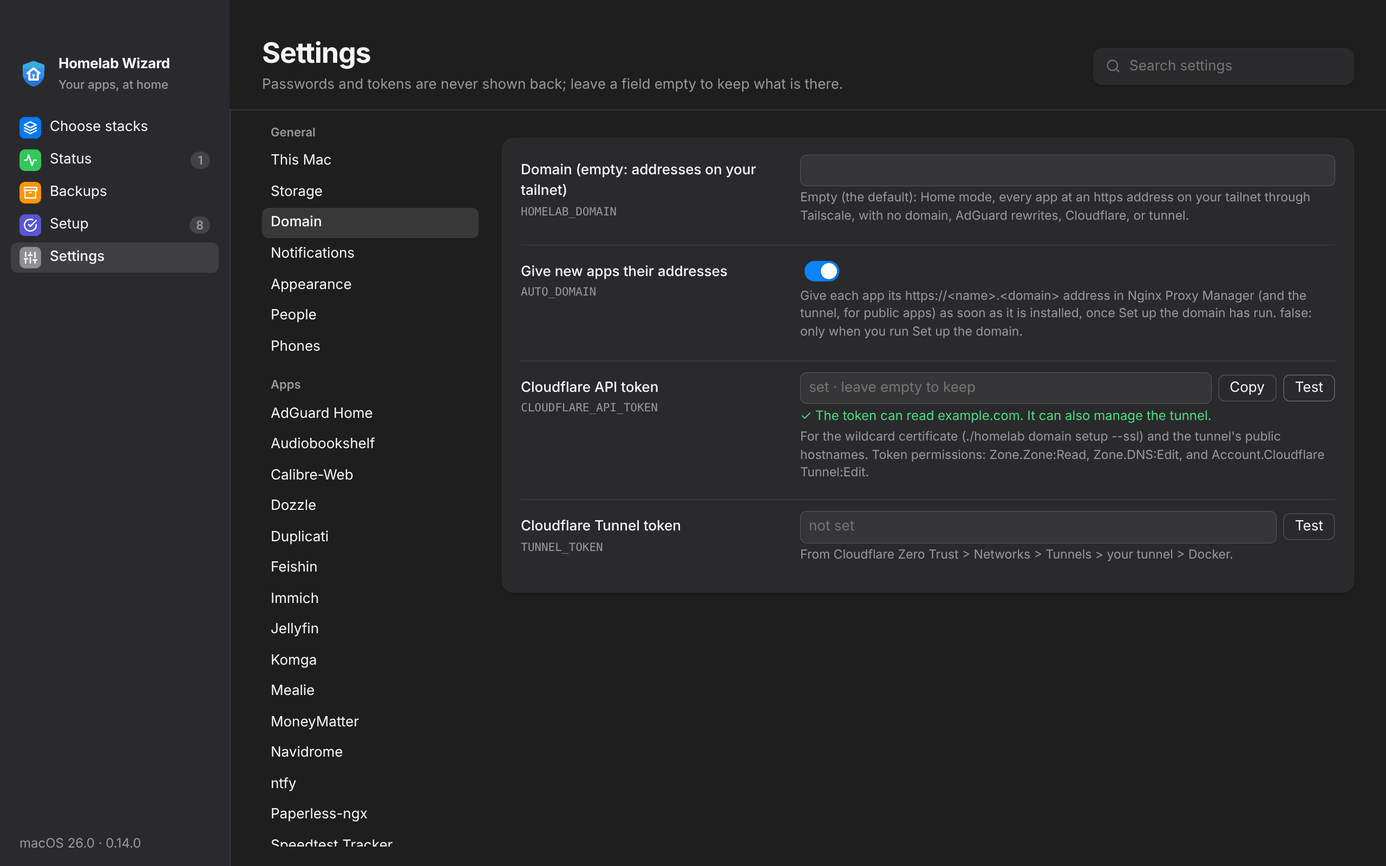
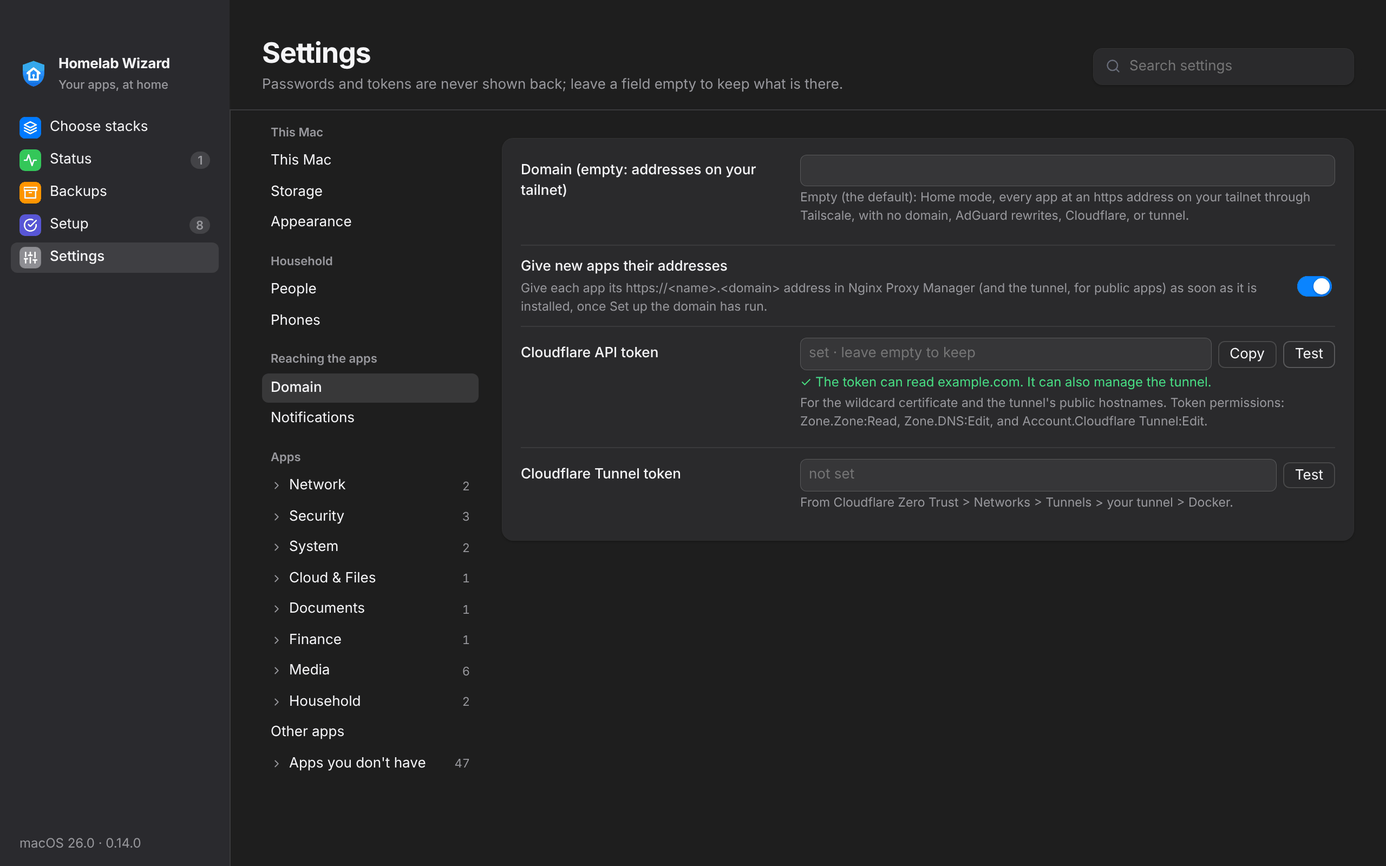
Settings, organized: pages in groups, apps by category (#285)
The page list in groups (this machine, the household, reaching the apps), the installed apps folded by category, and the apps not installed folded at the end; settings with plain names, the .env name on hover and while searching, and help without commands or true/false. Setup's Cloudflare token message in plain words.

Claude-Session: https://claude.ai/code/session_01Qfa6n3M9uAZdZ4J8jhJaPw

diff --git a/web/dist/app.js b/web/dist/app.js
@@ -1384,6 +1384,11 @@
     }
     return out;
   }
+  function plainHelp(help, toggle) {
+    const words = help.replace(/\s*\((?:\.\/)?homelab [^)]*\)/g, "");
+    if (!toggle) return words;
+    return words.split(new RegExp("(?<=\\.)\\s+")).filter((t3) => !/^(true|false)\b/i.test(t3)).join(" ");
+  }
   function Row3({ s: s3, p: p3, value, hidden, edit }) {
     const [result, setResult] = d2(null);
     const [testing, setTesting] = d2(false);
@@ -1422,19 +1427,22 @@
       s3.secret && s3.set && /* @__PURE__ */ u3("button", { class: "small", title: "Copy the saved value, to keep it in the password manager; the clipboard clears after 90 seconds", onClick: async () => setResult(await p3.on.copy(s3.key)), children: "Copy" }),
       p3.testable.has(s3.key) && /* @__PURE__ */ u3("button", { class: "small", title: "Check the saved value with the service it is for", disabled: testing, onClick: test, children: "Test" })
     ].filter(Boolean);
-    return /* @__PURE__ */ u3("div", { class: "setting" + (p3.focus.includes(s3.key) ? " focus" : "") + (p3.wanted.has(s3.key) ? "" : " more"), id: "setting-" + s3.key, hidden, children: [
-      /* @__PURE__ */ u3("div", { class: "key", children: [
-        /* @__PURE__ */ u3("span", { class: "label", children: label }),
-        /* @__PURE__ */ u3("code", { children: s3.key })
-      ] }),
-      buttons.length ? /* @__PURE__ */ u3("div", { class: "inputrow", children: [
-        input,
-        buttons
-      ] }) : input,
-      /* @__PURE__ */ u3("div", { class: "test" + (result ? " " + result.tone : ""), hidden: !result, children: result?.text }),
-      s3.help && /* @__PURE__ */ u3("div", { class: "help", children: s3.help }),
-      step && step.state !== "waiting" && /* @__PURE__ */ u3("div", { class: "check " + (step.state === "done" ? "ok" : "warn"), children: step.state === "done" ? `✓ ${step.title}` : `${step.title}: ${step.detail || "to do"}` })
-    ] });
+    return (
+      // Its .env name shows on hover, and under it while searching.
+      /* @__PURE__ */ u3("div", { class: "setting" + (toggle ? " toggle" : "") + (p3.focus.includes(s3.key) ? " focus" : "") + (p3.wanted.has(s3.key) ? "" : " more"), id: "setting-" + s3.key, hidden, children: [
+        /* @__PURE__ */ u3("div", { class: "key", title: s3.key, children: [
+          /* @__PURE__ */ u3("span", { class: "label", children: label }),
+          /* @__PURE__ */ u3("code", { children: s3.key })
+        ] }),
+        buttons.length ? /* @__PURE__ */ u3("div", { class: "inputrow", children: [
+          input,
+          buttons
+        ] }) : input,
+        /* @__PURE__ */ u3("div", { class: "test" + (result ? " " + result.tone : ""), hidden: !result, children: result?.text }),
+        s3.help && /* @__PURE__ */ u3("div", { class: "help", children: plainHelp(s3.help, toggle) }),
+        step && step.state !== "waiting" && /* @__PURE__ */ u3("div", { class: "check " + (step.state === "done" ? "ok" : "warn"), children: step.state === "done" ? `✓ ${step.title}` : `${step.title}: ${step.detail || "to do"}` })
+      ] })
+    );
   }
   function Form(p3) {
     const [edits, setEdits] = d2({});
@@ -1651,13 +1659,42 @@
   var mountPhones = (el, props) => R(/* @__PURE__ */ u3(Phones, { ...props }), el);
 
   // web/src/settings/Nav.tsx
+  function PageButton({ name, active: active2, counts, pick, inFold }) {
+    return /* @__PURE__ */ u3("button", { class: "pagebtn" + (inFold ? " infold" : "") + (!counts && name === active2 ? " active" : "") + (counts && !counts[name] ? " nomatch" : ""), "data-page": name, onClick: () => pick(name), children: [
+      /* @__PURE__ */ u3("span", { children: name }),
+      /* @__PURE__ */ u3("span", { class: "n", children: counts && counts[name] ? String(counts[name]) : "" })
+    ] }, name);
+  }
   function Nav({ groups, active: active2, counts, pick }) {
-    return /* @__PURE__ */ u3(S, { children: groups.filter((g2) => g2.pages.length).map((g2) => [
+    const [picked, setPicked] = d2({});
+    const matches2 = (f4) => !!counts && f4.pages.some((p3) => counts[p3]);
+    const isOpen = (f4) => counts ? matches2(f4) : picked[f4.label] ?? f4.pages.includes(active2);
+    return /* @__PURE__ */ u3(S, { children: groups.filter((g2) => g2.items.length).map((g2) => [
       /* @__PURE__ */ u3("div", { class: "navhead", children: g2.head }, "h:" + g2.head),
-      ...g2.pages.map((name) => /* @__PURE__ */ u3("button", { class: "pagebtn" + (!counts && name === active2 ? " active" : "") + (counts && !counts[name] ? " nomatch" : ""), "data-page": name, onClick: () => pick(name), children: [
-        /* @__PURE__ */ u3("span", { children: name }),
-        /* @__PURE__ */ u3("span", { class: "n", children: counts && counts[name] ? String(counts[name]) : "" })
-      ] }, name))
+      ...g2.items.map((item) => {
+        if (typeof item === "string") return /* @__PURE__ */ u3(PageButton, { name: item, active: active2, counts, pick }, item);
+        const f4 = item, open = isOpen(f4);
+        const n2 = counts ? f4.pages.reduce((sum, p3) => sum + (counts[p3] || 0), 0) : f4.pages.length;
+        return [
+          /* @__PURE__ */ u3(
+            "button",
+            {
+              class: "navfold" + (open ? " open" : "") + (counts && !n2 ? " nomatch" : ""),
+              "aria-expanded": open,
+              onClick: () => setPicked({ ...picked, [f4.label]: !open }),
+              children: [
+                /* @__PURE__ */ u3("span", { children: [
+                  /* @__PURE__ */ u3(Icon, { name: "chevron" }),
+                  f4.label
+                ] }),
+                /* @__PURE__ */ u3("span", { class: "n", children: n2 ? String(n2) : "" })
+              ]
+            },
+            "f:" + f4.label
+          ),
+          ...open ? f4.pages.map((name) => /* @__PURE__ */ u3(PageButton, { name, active: active2, counts, pick, inFold: true }, name)) : []
+        ];
+      })
     ]) });
   }
   function mountNav(el, props) {
@@ -3587,18 +3624,30 @@
     const appPages = [...byApp.values()].sort((a3, b2) => Number(a3.name === "Other apps") - Number(b2.name === "Other apps") || a3.name.localeCompare(b2.name));
     return [...general, ...appPages];
   }
+  var pageGroups = [
+    [thisMachine, [thisMachine, "Storage", "Appearance"]],
+    ["Household", ["People", "Phones"]],
+    ["Reaching the apps", ["Domain", "Notifications"]]
+  ];
   var navGroups = [];
   function renderSettingsNav(pages) {
     const installed = (name) => Object.values(statusById || {}).some((a3) => a3.name === name && a3.state !== "missing");
-    const general = pages.filter((p3) => p3.kind === "general");
+    const general = [...pages.filter((p3) => p3.kind === "general").map((p3) => p3.name), ...extraPages];
     const apps = pages.filter((p3) => p3.kind === "app");
     const known = Object.keys(statusById || {}).length > 0;
     const mine = known ? apps.filter((p3) => installed(p3.name) || p3.name === "Other apps") : apps;
     const others = known ? apps.filter((p3) => !mine.includes(p3)) : [];
+    const groups = pageGroups.map(([head, names]) => ({ head, items: names.filter((n2) => general.includes(n2)) }));
+    const named = new Set(pageGroups.flatMap(([, names]) => names));
+    groups[0].items.push(...general.filter((n2) => !named.has(n2)));
+    const cats = catalog?.categories || [];
+    const catOf = (name) => (catalog?.apps || []).find((a3) => a3.kind !== "helper" && (name === a3.name || name.startsWith(a3.name + " ")))?.category || "";
+    const folds = cats.map((c3) => ({ label: c3.label, pages: mine.filter((p3) => p3.name !== "Other apps" && catOf(p3.name) === c3.id).map((p3) => p3.name) })).filter((f4) => f4.pages.length);
+    const loose = mine.filter((p3) => p3.name !== "Other apps" && !cats.some((c3) => c3.id === catOf(p3.name))).map((p3) => p3.name);
+    const other = mine.some((p3) => p3.name === "Other apps") ? ["Other apps"] : [];
     navGroups = [
-      { head: "General", pages: [...general.map((p3) => p3.name), ...extraPages] },
-      { head: "Apps", pages: mine.map((p3) => p3.name) },
-      { head: "Not installed", pages: others.map((p3) => p3.name) }
+      ...groups,
+      { head: "Apps", items: [...loose, ...folds, ...other, ...others.length ? [{ label: "Apps you don't have", pages: others.map((p3) => p3.name) }] : []] }
     ];
   }
   function pickSettingsPage(name) {
@@ -3608,7 +3657,7 @@
     document.querySelector("main").scrollTo({ top: 0 });
   }
   function showSettingsPage(name) {
-    $1(`#settingsNav .pagebtn[data-page="${CSS.escape(name)}"]`)?.click();
+    pickSettingsPage(name);
   }
   var everyday = /* @__PURE__ */ new Set([
     "TZ",
@@ -3739,6 +3788,7 @@
     const sh = shown(form.pages, form.view, form.wanted, form.label, form.checks);
     for (const [id2, name] of [["thisMacCard", thisMachine], ["appearanceCard", "Appearance"], ["peopleCard", "People"], ["phonesCard", "Phones"]]) $2(id2).classList.toggle("offpage", searching || settingsPage !== name);
     mountNav($2("settingsNav"), { groups: navGroups, active: settingsPage, counts: searching ? sh.counts : null, pick: pickSettingsPage });
+    $2("settingsForm").classList.toggle("searching", searching);
     $2("settingsNone").hidden = sh.keys.size > 0 || !searching;
     $2("settingsAll").hidden = searching || !sh.pageMore;
     $2("settingsAll").textContent = settingsShowAll ? "Show the everyday settings only" : `Show all settings (${sh.pageMore} more)`;

diff --git a/web/src/screens/settings.ts b/web/src/screens/settings.ts
@@ -229,18 +229,36 @@ function settingsPages(list) {
   return [...general, ...appPages];
 }
 
-// The page list on the left: General, then Apps (the installed ones first,
-// as Status knows them), with a count of matches while searching.
+// The page list on the left (owner, 29 Oct: "per category"): this machine,
+// the household, and reaching the apps; then the installed apps folded by
+// their category on Status; then the apps not installed, folded as one.
+// A page not named in the groups joins the first.
+const pageGroups: [string, string[]][] = [
+  [thisMachine, [thisMachine, 'Storage', 'Appearance']],
+  ['Household', ['People', 'Phones']],
+  ['Reaching the apps', ['Domain', 'Notifications']],
+];
 let navGroups: NavGroup[] = [];
 function renderSettingsNav(pages) {
   const installed = (name) => Object.values(statusById || {}).some((a) => a.name === name && a.state !== 'missing');
-  const general = pages.filter((p) => p.kind === 'general');
+  const general = [...pages.filter((p) => p.kind === 'general').map((p) => p.name), ...extraPages];
   const apps = pages.filter((p) => p.kind === 'app');
   const known = Object.keys(statusById || {}).length > 0;
   const mine = known ? apps.filter((p) => installed(p.name) || p.name === 'Other apps') : apps;
   const others = known ? apps.filter((p) => !mine.includes(p)) : [];
-  navGroups = [{ head: 'General', pages: [...general.map((p) => p.name), ...extraPages] },
-    { head: 'Apps', pages: mine.map((p) => p.name) }, { head: 'Not installed', pages: others.map((p) => p.name) }];
+  const groups: NavGroup[] = pageGroups.map(([head, names]) => ({ head, items: names.filter((n) => general.includes(n)) }));
+  const named = new Set(pageGroups.flatMap(([, names]) => names));
+  groups[0].items.push(...general.filter((n) => !named.has(n)));
+  // An app page's category: its app's (a page named for an app, or for an
+  // app and its helpers, as "Nginx Proxy Manager and CrowdSec").
+  const cats = catalog?.categories || [];
+  const catOf = (name) => (catalog?.apps || []).find((a) => a.kind !== 'helper' && (name === a.name || name.startsWith(a.name + ' ')))?.category || '';
+  const folds = cats.map((c) => ({ label: c.label, pages: mine.filter((p) => p.name !== 'Other apps' && catOf(p.name) === c.id).map((p) => p.name) }))
+    .filter((f) => f.pages.length);
+  const loose = mine.filter((p) => p.name !== 'Other apps' && !cats.some((c) => c.id === catOf(p.name))).map((p) => p.name);
+  const other = mine.some((p) => p.name === 'Other apps') ? ['Other apps'] : [];
+  navGroups = [...groups,
+    { head: 'Apps', items: [...loose, ...folds, ...other, ...(others.length ? [{ label: "Apps you don't have", pages: others.map((p) => p.name) }] : [])] }];
 }
 function pickSettingsPage(name) {
   settingsPage = name;
@@ -248,8 +266,10 @@ function pickSettingsPage(name) {
   filterSettings();
   document.querySelector('main').scrollTo({ top: 0 });
 }
+// A page in a folded category has no button until its fold opens: picked
+// directly, its fold opens with it.
 export function showSettingsPage(name) {
-  $1(`#settingsNav .pagebtn[data-page="${CSS.escape(name)}"]`)?.click();
+  pickSettingsPage(name);
 }
 
 // The settings people change: where things are, the accounts the homelab
@@ -327,6 +347,7 @@ function filterSettings() {
   const sh = shownSettings(form.pages, form.view, form.wanted, form.label, form.checks);
   for (const [id, name] of [['thisMacCard', thisMachine], ['appearanceCard', 'Appearance'], ['peopleCard', 'People'], ['phonesCard', 'Phones']]) $(id).classList.toggle('offpage', searching || settingsPage !== name);
   mountNav($('settingsNav'), { groups: navGroups, active: settingsPage, counts: searching ? sh.counts : null, pick: pickSettingsPage });
+  $('settingsForm').classList.toggle('searching', searching);
   $('settingsNone').hidden = sh.keys.size > 0 || !searching;
   $('settingsAll').hidden = searching || !sh.pageMore;
   $('settingsAll').textContent = settingsShowAll ? 'Show the everyday settings only' : `Show all settings (${sh.pageMore} more)`;

diff --git a/web/src/settings/Nav.tsx b/web/src/settings/Nav.tsx
@@ -1,9 +1,16 @@
-// Settings' page list on the left: General (with Appearance, People, and
-// Phones), then the installed apps, then the rest, each with a count of
-// matches while searching.
+// Settings' page list on the left, in groups (this machine, the household,
+// reaching the apps), then the installed apps folded by category, then the
+// apps not installed folded as one; each page with a count of matches while
+// searching. A fold opens by itself when it holds the page shown, or a match.
 import { render } from 'preact';
+import { useState } from 'preact/hooks';
+import { Icon } from '../Icon';
 
-export interface NavGroup { head: string; pages: string[] }
+/** A folded set of pages: a category of apps, or the apps not installed. */
+export interface NavFold { label: string; pages: string[] }
+
+/** A group: its pages and folds, in order. */
+export interface NavGroup { head: string; items: (string | NavFold)[] }
 
 export interface NavProps {
   groups: NavGroup[];
@@ -14,16 +21,35 @@ export interface NavProps {
   pick: (page: string) => void;
 }
 
+function PageButton({ name, active, counts, pick, inFold }: { name: string; active: string; counts: Record<string, number> | null; pick: (p: string) => void; inFold?: boolean }) {
+  return (
+    <button key={name} class={'pagebtn' + (inFold ? ' infold' : '') + (!counts && name === active ? ' active' : '') + (counts && !counts[name] ? ' nomatch' : '')} data-page={name} onClick={() => pick(name)}>
+      <span>{name}</span><span class="n">{counts && counts[name] ? String(counts[name]) : ''}</span>
+    </button>
+  );
+}
+
 export function Nav({ groups, active, counts, pick }: NavProps) {
+  // The folds opened or closed by hand; the others follow the page shown.
+  const [picked, setPicked] = useState<Record<string, boolean>>({});
+  const matches = (f: NavFold) => !!counts && f.pages.some((p) => counts[p]);
+  const isOpen = (f: NavFold) => (counts ? matches(f) : picked[f.label] ?? f.pages.includes(active));
   return (
     <>
-      {groups.filter((g) => g.pages.length).map((g) => [
+      {groups.filter((g) => g.items.length).map((g) => [
         <div class="navhead" key={'h:' + g.head}>{g.head}</div>,
-        ...g.pages.map((name) => (
-          <button key={name} class={'pagebtn' + (!counts && name === active ? ' active' : '') + (counts && !counts[name] ? ' nomatch' : '')} data-page={name} onClick={() => pick(name)}>
-            <span>{name}</span><span class="n">{counts && counts[name] ? String(counts[name]) : ''}</span>
-          </button>
-        )),
+        ...g.items.map((item) => {
+          if (typeof item === 'string') return <PageButton key={item} name={item} active={active} counts={counts} pick={pick} />;
+          const f = item, open = isOpen(f);
+          const n = counts ? f.pages.reduce((sum, p) => sum + (counts[p] || 0), 0) : f.pages.length;
+          return [
+            <button key={'f:' + f.label} class={'navfold' + (open ? ' open' : '') + (counts && !n ? ' nomatch' : '')} aria-expanded={open}
+              onClick={() => setPicked({ ...picked, [f.label]: !open })}>
+              <span><Icon name="chevron" />{f.label}</span><span class="n">{n ? String(n) : ''}</span>
+            </button>,
+            ...(open ? f.pages.map((name) => <PageButton key={name} name={name} active={active} counts={counts} pick={pick} inFold />) : []),
+          ];
+        }),
       ])}
     </>
   );

diff --git a/web/dist/style.css b/web/dist/style.css
@@ -958,6 +958,23 @@ html:is(.os-mac, .os-windows, .os-linux) .checklist > li.fold, html:is(.os-mac, 
 .thismac .hostcard { margin:0; padding:0; box-shadow:none; border:0; background:none; }
 .thismac .reportrow { display:flex; flex-wrap:wrap; align-items:center; justify-content:space-between; gap:8px 12px; margin-top:10px; padding-top:10px; border-top:1px solid var(--line); font-size:13px; }
 #reportLog { margin:10px 0 0; background:var(--sunken); border:1px solid var(--line); border-radius:8px; padding:10px 12px; max-height:220px; overflow:auto; font-size:12px; white-space:pre-wrap; font-family:var(--mono); }
+/* Settings (owner, 29 Oct: "per category", "the submenus are a bit
+   ugly"): the apps folded by category in the page list; a setting's .env
+   name only on hover and while searching; a switch beside its name, its
+   help under the name. */
+.settingsnav .navfold { display:flex; justify-content:space-between; align-items:center; gap:8px; text-align:left; background:none; border:0; border-radius:6px; padding:4px 8px; color:var(--text); font-size:13px; }
+.settingsnav .navfold:hover { background:color-mix(in srgb, var(--muted) 12%, transparent); }
+.settingsnav .navfold > span:first-child { display:inline-flex; align-items:center; gap:6px; }
+.settingsnav .navfold .icon { width:11px; height:11px; color:var(--muted); transition:transform .15s; }
+.settingsnav .navfold.open .icon { transform:rotate(90deg); }
+.settingsnav .navfold.nomatch { opacity:.4; }
+.settingsnav .navfold .n { font-size:11px; color:var(--muted); font-variant-numeric:tabular-nums; }
+.settingsnav .pagebtn.infold { padding-left:25px; }
+#settingsForm:not(.searching) .setting .key code { display:none; }
+html #settingsForm .setting.toggle { grid-template-columns:minmax(0,1fr) auto; column-gap:18px; }
+html #settingsForm .setting.toggle .key { grid-column:1; grid-row:1; padding-top:0; }
+html #settingsForm .setting.toggle > input.switch { grid-column:2; grid-row:1 / span 2; align-self:center; }
+html #settingsForm .setting.toggle :is(.help, .check, .test) { grid-column:1; }
 /* A narrow window (or large text): each screen fits its own width, so
    nothing scrolls sideways. Container queries, not media queries, so the
    text size (html's zoom) counts too. */

diff --git a/web/src/settings/Form.tsx b/web/src/settings/Form.tsx
@@ -89,6 +89,18 @@ export function shown(pages: Page[], view: View, wanted: Set<string>, label: (ke
   return out;
 }
 
+/**
+ * A setting's help in plain words: the commands behind it ("(./homelab
+ * domain setup --ssl)") go, and for a switch so do the sentences that
+ * spell out a value ("false lets it sleep as set.", "false: off."), since
+ * the switch shows it.
+ */
+export function plainHelp(help: string, toggle: boolean): string {
+  const words = help.replace(/\s*\((?:\.\/)?homelab [^)]*\)/g, '');
+  if (!toggle) return words;
+  return words.split(/(?<=\.)\s+/).filter((t) => !/^(true|false)\b/i.test(t)).join(' ');
+}
+
 interface RowProps {
   s: settings.Setting;
   p: FormProps;
@@ -127,11 +139,12 @@ function Row({ s, p, value, hidden, edit }: RowProps) {
     p.testable.has(s.key) && <button class="small" title="Check the saved value with the service it is for" disabled={testing} onClick={test}>Test</button>,
   ].filter(Boolean);
   return (
-    <div class={'setting' + (p.focus.includes(s.key) ? ' focus' : '') + (p.wanted.has(s.key) ? '' : ' more')} id={'setting-' + s.key} hidden={hidden}>
-      <div class="key"><span class="label">{label}</span><code>{s.key}</code></div>
+    // Its .env name shows on hover, and under it while searching.
+    <div class={'setting' + (toggle ? ' toggle' : '') + (p.focus.includes(s.key) ? ' focus' : '') + (p.wanted.has(s.key) ? '' : ' more')} id={'setting-' + s.key} hidden={hidden}>
+      <div class="key" title={s.key}><span class="label">{label}</span><code>{s.key}</code></div>
       {buttons.length ? <div class="inputrow">{input}{buttons}</div> : input}
       <div class={'test' + (result ? ' ' + result.tone : '')} hidden={!result}>{result?.text}</div>
-      {s.help && <div class="help">{s.help}</div>}
+      {s.help && <div class="help">{plainHelp(s.help, toggle)}</div>}
       {step && step.state !== 'waiting' && (
         <div class={'check ' + (step.state === 'done' ? 'ok' : 'warn')}>{step.state === 'done' ? `✓ ${step.title}` : `${step.title}: ${step.detail || 'to do'}`}</div>
       )}

diff --git a/internal/setup/setup.go b/internal/setup/setup.go
@@ -353,7 +353,7 @@ func Steps(ctx context.Context, in Inputs) []Step {
 			Settings: []string{"CLOUDFLARE_API_TOKEN"}, Open: "https://dash.cloudflare.com/profile/api-tokens",
 			Detail: "Create a custom token with Zone › Zone › Read, Zone › DNS › Edit, and Account › Cloudflare Tunnel › Edit for " + dom + "."}
 		if cfErr != "" && env["CLOUDFLARE_API_TOKEN"] != "" {
-			cf.Detail = "The token does not work for " + dom + ": " + cfErr
+			cf.Detail = "Cloudflare does not accept the token for " + dom + " (" + cloudflareSaid(cfErr) + "). Make a new one with Zone › Zone › Read, Zone › DNS › Edit, and Account › Cloudflare Tunnel › Edit, and put it here."
 		}
 		add(cf, cfErr == "")
 
@@ -700,4 +700,16 @@ func FirstSeen(root string) time.Time {
 		_ = f.save(root)
 	}
 	return f.Since
+}
+
+// cloudflareSaid is what Cloudflare answered, without the request it
+// answered ("cloudflare GET /zones?name=…: Invalid access token" says
+// "Invalid access token").
+func cloudflareSaid(err string) string {
+	if strings.HasPrefix(err, "cloudflare ") {
+		if i := strings.LastIndex(err, ": "); i >= 0 {
+			return err[i+2:]
+		}
+	}
+	return err
 }

diff --git a/internal/setup/setup_test.go b/internal/setup/setup_test.go
@@ -521,3 +521,16 @@ func TestKopiaStepSaysHowItsRestoreTestWent(t *testing.T) {
 		t.Errorf("failed: %q", d)
 	}
 }
+
+// Cloudflare's answer is kept, the request it answered is not.
+func TestCloudflareSaid(t *testing.T) {
+	for in, want := range map[string]string{
+		"cloudflare GET /zones?name=snooper42.com: Invalid access token": "Invalid access token",
+		"cloudflare GET /zones?name=a.com: 403":                          "403",
+		"dial tcp: lookup api.cloudflare.com: no such host":              "dial tcp: lookup api.cloudflare.com: no such host",
+	} {
+		if got := cloudflareSaid(in); got != want {
+			t.Errorf("cloudflareSaid(%q) = %q, want %q", in, got, want)
+		}
+	}
+}

diff --git a/app/README.md b/app/README.md
@@ -11,7 +11,7 @@ A [Wails v2](https://wails.io) app over the same engine as the `homelab` CLI: Go
 | An app's page | The chevron at the end of a row, or a click on the row (on a phone too). The app's own icon (asked of the app on this machine once a week; its first letter when it has none), its name and state ("Running · up 8 hours") with Restart and Stop as one group (Start when stopped), Open on a phone, and Open; four tiles: its address (Copy, and whether it is reached at home and on the tailnet or also through the Cloudflare Tunnel), what it uses now (memory and processor from `docker stats` every 10 seconds, and its size on disk from the nightly backup's `data/storage.json` when listed), this week (seven bars from the watchdog's runs per day, orange or red on a day with missed checks), and the last backup (with the last restore test and a link to Backups). Then its log (the last 200 lines, Show more of it for 2000, warnings and errors tinted, Dozzle while it runs, **Explain this** when Ollama has a model, the answer in a card with Ask again and Hide), Updates (when it was last updated, with Roll back, and Check for an update), Who uses it (the household members whose apps include it, for apps people sign in to, with Sign-in details where the homelab made a login), Settings (**Nightly updates** and **Tell me if it stops** as switches that change at once and go back with the reason if the change fails; what the nightly backup keeps of it, with no switch), and More (Back up now, which runs on Backups, Open Backups, and **Remove**: a backup of it first, then its container goes and its data stays; not on a phone). It belongs to Status: Status stays picked in the sidebar and ‹ Status goes back. |
 | Status: moving and cleaning up | Apps running *elsewhere* (an older setup) get **Move in**, which shows `homelab adopt`'s plan and runs it on confirm. **Clean up old containers** does the same for `homelab cleanup`. |
 | Add your own app | At the bottom of Choose stacks: a name, an image, a web port, and folders to keep. Runs `homelab custom add`, then ticks the new app so the plan shows what installing it does. |
-| Settings | **People** first: the household (`homelab person`), each with **Welcome page**, **New sign-in link**, and **Remove** (sign-in off, data kept), and **Add a person** with their name, email, and the apps they use; without Pocket ID running it offers **Install Pocket ID**. Then **Phones**: the phones paired with the phone companion (`homelab serve`), with when each was last seen, Allow changes or Make read-only, Remove, and Pair a phone (a QR code drawn on the Go side, the one-time code, and the links, plus the same link with `&kiosk` for a TV or a wall tablet, which then shows Status alone, large, without buttons). Then `.env` as a form, grouped and explained from `.env.example`: the everyday settings first (where things are, the accounts, how it behaves, and what an installed app or a Setup step needs), with ports, versions, generated passwords, and internal addresses behind **Show all settings**; search looks through everything. Passwords and tokens are never sent to the page: their fields say whether a value is set, and empty keeps it. After saving, each setting shows whether its setup step now passes. Logins, tokens, the heartbeat URL, and the backup and media folders have a **Test** button that saves a value you just typed, then checks it with the real service (AdGuard and NPM sign-ins, the Cloudflare token reading the zone and the tunnel, the tunnel token, a heartbeat ping, writing a file in the backup folder). **Copy** beside a saved password or token puts it on the clipboard (from the Go side, so it never reaches the page) for the password manager, and clears the clipboard after 90 seconds. Folder settings (`BACKUP_DESTINATION`, `MEDIA_ROOT`, and the like) have **Choose…**, the system folder picker. |
+| Settings | The page list in groups: this machine (**This Mac**, with the machine's details and **Make a diagnostics report**; Storage; Appearance), the household (People, Phones), and reaching the apps (Domain, Notifications); then the installed apps folded by their category on Status, and the apps not installed folded as one (a search opens the folds with matches). A setting shows its name in words, its `.env` name on hover and while searching, a switch beside its name, and help without the commands behind it or a switch's true and false. **People**: the household (`homelab person`), each with **Welcome page**, **New sign-in link**, and **Remove** (sign-in off, data kept), and **Add a person** with their name, email, and the apps they use; without Pocket ID running it offers **Install Pocket ID**. Then **Phones**: the phones paired with the phone companion (`homelab serve`), with when each was last seen, Allow changes or Make read-only, Remove, and Pair a phone (a QR code drawn on the Go side, the one-time code, and the links, plus the same link with `&kiosk` for a TV or a wall tablet, which then shows Status alone, large, without buttons). Then `.env` as a form, grouped and explained from `.env.example`: the everyday settings first (where things are, the accounts, how it behaves, and what an installed app or a Setup step needs), with ports, versions, generated passwords, and internal addresses behind **Show all settings**; search looks through everything. Passwords and tokens are never sent to the page: their fields say whether a value is set, and empty keeps it. After saving, each setting shows whether its setup step now passes. Logins, tokens, the heartbeat URL, and the backup and media folders have a **Test** button that saves a value you just typed, then checks it with the real service (AdGuard and NPM sign-ins, the Cloudflare token reading the zone and the tunnel, the tunnel token, a heartbeat ping, writing a file in the backup folder). **Copy** beside a saved password or token puts it on the clipboard (from the Go side, so it never reaches the page) for the password manager, and clears the clipboard after 90 seconds. Folder settings (`BACKUP_DESTINATION`, `MEDIA_ROOT`, and the like) have **Choose…**, the system folder picker. |
 | Connect the apps | After an install (or with Status › More… › Connect apps): Prowlarr gets Sonarr, Radarr, and Lidarr and FlareSolverr; qBittorrent becomes their download client (needs `QBITTORRENT_PASSWORD` in `.env`). Seerr and Bazarr need a sign-in, so they show as next steps. Same engine as `homelab wire`. |
 | Menu bar | Laid out as the approved mockup, the same on every system in its own menus. First, at a glance: a coloured dot and how many apps run ("33 of 34 apps running"), then how many need a look and when the homelab was last read ("One needs a look · checked just now"). Every line up to the first separator has a mark, so the words line up: the first line (how many apps run) its state dot, and a click opens Status; the grey line under it none. Then only what needs a look: an orange dot for each app restarting, unwell, not answering, or not running, by name (up to three lines, the last saying how many more), for the checks the watchdog alerted about ("3 watchdog checks failing", the names in its tooltip), and for the newest alert from the last 12 hours (each click for Status); a tick for when the last backup ran ("Backed up at 3:12 this morning"; an orange dot and a warning past 26 hours; click for Backups); an arrow when updates are ready ("2 updates ready", or a newer app build; checked once an hour; click for Setup). The marks are drawn at two pixels a point, with smoothed edges, as .ico on Windows. Then Open Homelab Wizard; Open an app, with the installed apps under their categories, each with a dot for its state (green running, orange needs a look, grey stopped) and ending with Every app (Status); Back up now; Update apps now; pause or resume nightly updates; Keep this Mac (PC, computer) awake while plugged in (a check box, ticked while `KEEP_AWAKE` is on; a click turns it off or on, and the awake job follows within a minute); and Quit Homelab Wizard…, which opens the app to ask before it stops the homelab. The tooltip adds what the running apps replace in subscriptions a year. Starts with the app and refreshes every minute and on each change the engine reports. |
 

diff --git a/CHANGELOG.md b/CHANGELOG.md
@@ -13,7 +13,12 @@ Notes are grouped as **New**, **Improved**, and **Fixed**, one line each, in pla
 
 ### Improved
 
+- **Settings, organized:** the page list in groups (this machine, the household, reaching the apps), the installed apps folded by their category as on Status, and the apps you don't have folded at the end; a search opens the folds with matches. Each setting shows its name in words, with its `.env` name on hover and while searching, a switch beside its name, and help without the commands behind it or a switch's true and false.
 - **Setup, redesigned:** the first-time checklist is now **Finish setting up**, one line a step grouped as Needs you, Can wait, and Done (each step opens for the rest of what it says), with **Do the N I can do for you**. The update card says what an update brings in plain words, without git or `.env`, and its **Release notes** no longer read as a different count of changes.
+
+### Fixed
+
+- Setup's Cloudflare API token step said what Cloudflare answered with the request it answered ("cloudflare GET /zones?name=…: Invalid access token"); it now says Cloudflare does not accept the token, why, and what a new one needs.
 
 ## [0.14.0] - 2026-10-29
 
